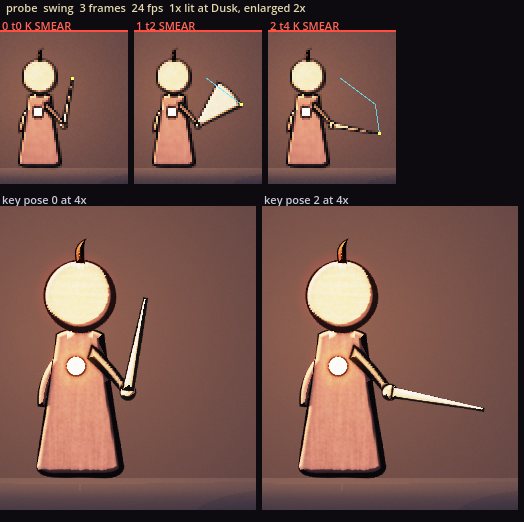
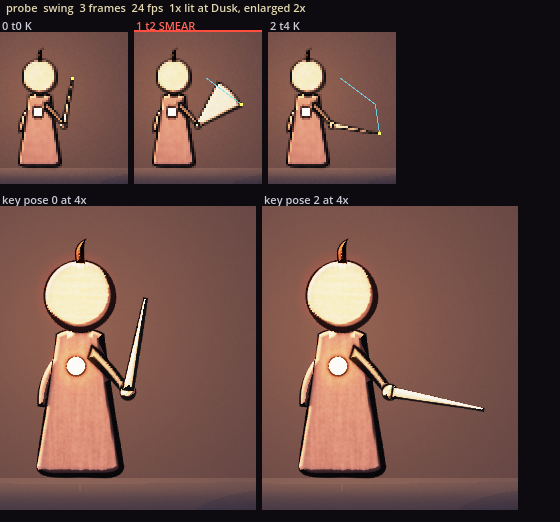
Phase 2 task 1: the art pipeline made whole: ADR-0023 addendum, feel log with critique and review pictures, CODEMAP, PROGRESS (BUILD.md s10 Style, Lighting, Pipeline Review)
Claude-Session: https://claude.ai/code/session_01W19BhohaDCqzNUvUUykRxy

diff --git a/docs/feel_log/2026-10-20-art-pipeline.md b/docs/feel_log/2026-10-20-art-pipeline.md
@@ -1,0 +1,52 @@
+# 2026-10-20: Phase 2 task 1, the art pipeline made whole
+
+- Author: Claude
+- BUILD.md section and table row: section 10, Style, Lighting, Animation (the baking line) and Pipeline (Review); section 8, The Dark
+- Fixture(s): none (presentation only; the core and every golden hash are untouched: 545 fixtures, no hash moved)
+- Contact sheet: `docs/feel_log/2026-10-20-art-pipeline/` (the pictures below), `2026-10-20-art-pipeline-spike.png` for where it started
+
+## Change
+
+First implementation of the joined pipeline; no tuned number changed except that `boil_hz` now has one home (`content/lighting.tres`, 12; it was in two files). What was joined and why is ADR-0023's second addendum: artbuild bakes SVG parts, the ink and gouache shaders draw them, the lighting pass lights them, and one command (`tools/artbuild/review.sh <asset>`) writes the three-size review.
+
+| Number | Before | After | Unit |
+| --- | --- | --- | --- |
+| `boil_hz` | 12 in `ink.tres` and 12 in `lighting.tres` | 12 in `lighting.tres` only | Hz |
+
+## What was looked at, and what it says (BUILD.md section 10)
+
+Two built assets went through the whole path: the candle stump (`tests/art/src/candle_stump`, a prop with a tagged emissive flame) and the probe figure (`tools/artbuild/tests/data/probe`, a Wick-shaped figure with a chest ember and a blade with a smear). Neither is shipped art; they are the pipeline's test subjects, and Ash is the first real one (task 2). Every picture below was opened.
+
+**Silhouette at 64 px** (`sil64.png`, `probe/sil64.png`). The stump reads as a candle: a blob with a lip, a pool and a flame tip that breaks the outline. The probe reads as a Wick: ball head with a tuft, a tall tapering robe, a blade. The blade is one pixel wide at 64 px. That is right for a thin blade, but a Wick's weapon must survive at 64 px, so Ash's blade is drawn at least 3 u wide at its base. Nothing was decorated to be understood.
+
+**Line** (`detail4x.png`, `probe/detail4x.png`). Heavy on the side away from the light (about 5 px at 4x, the 1.3 u of `ink.tres`), a hairline on the lit side, a wobble that moves every fifth tick, and a taper at the drip tip and the blade point. The line pools at the stump's drips, which is the look wanted. Where the line meets the pool's edge the shadow-side weight reads slightly blobby at 4x; at 1x it reads as weight, not blobs. Left as it is until a real asset shows it is a problem.
+
+**Value separation** (`dusk1x.png`, `probe/dusk1x.png`). The two values show at the edges (the rim, the shadow-side line) and not across large parts: the stump's body and the probe's robe read as one flat value, because the bevel that gives a part its normal is 3 u deep by default and the terminator only exists inside it. The shaders are doing what ADR-0023 says. The finding is for Ash and every large part: give them `data-bevel-u` of 8 to 12 so the form turns across the part, and judge the terminator in the review, not in isolation. Not changed here: it is an asset decision, and a default that rounds everything would flatten small parts.
+
+**Readability at Pitch** (`pitch1x.png`, `probe/pitch1x.png`). The ember reveals the figure within about 200 u and the room falls to black beyond it, which is the brief. The stump, lit from 120 u to its left, shows its lit left edge and its white-hot flame and loses its right side and its line to the dark, as it should. The probe carries its own ember, so it never loses its chest. At Pitch a surface that only the room key lights falls to its shadow value (the key is scaled by the Dark), which is why the probe's head goes from cream to orange between Dusk and Pitch. I judge that correct and not a bug, and it is recorded in ADR-0023.
+
+**Emissive** (`detail4x.png`). The flame is white-hot with an orange bloom and no ink line, the chest ember is a white disc with a halo; both survive Pitch. The probe's wick tuft is orange from the flame's bloom, as intended.
+
+**Smear and arc** (`probe/swing.png`). The swing's middle frame carries a pale fan, the smear, and its last frame is the blade at full extension (the sheet flags only that frame, and the contact sheet marks it in red); the arc drawn over the row passes through each frame's real tip (the first version used a box corner and drew a rectangle; wrong, fixed by adding the tip to `sheet.json`). The sheet's key poses at 4x are below the row. Three frames with one smear frame is thin for a Signature but is enough to check the machinery.
+
+**The lit test room** (`dusk1x.png` against `pitch1x.png`). Soft shadows from the ledge fall across the backdrop in a wide cone; the wall interior on the right is black with a 14 u lit skin on the face turned to the ember; the crate on the left is a Phase 1 flat box and is the one thing in the room that looks like a placeholder (it is). The ember's falloff at Dusk is gentle; at Pitch it is a pool with a hard-ish rim on the floor.
+
+**Ash's grey box and a zone 1 room under the new lighting** (`zone1/`). Ash is still the Phase 1 box (cyan at Dusk, green at Pitch because it is lit, not tinted). At 1x (`ash_1x_dusk.png`, `ash_1x_pitch.png`) the ember rakes across the floor and the far dummy is a lit slab at Dusk and gone at Pitch beyond the ember's reach, which is the brief's "the world is the ember". Room 5 (`room05_*.png`) shows the ember lighting the climb's foot and the column's skin; the black block at the left of the floor is solid beyond the room's edge.
+
+## Bugs the joined picture found (all fixed, all in the tests)
+
+1. `SpriteSheet` read only the top-level `cell_u` and `origin_u`, so a sprite stood 7 u off its feet on the candle (the artbuild's cells are per action). Now per action.
+2. `InkSprite.setup` left the first sheet's texture on the node, so the 4x review showed four tiny candles. Now it takes the new sheet's.
+3. The ink include declared `wane_boil` and so did the lighting include: neither shader compiled until one stopped.
+4. The ink render tests lit with the stub's `wane_ember` global; the real light reads a table. They now light through a `LightField`.
+5. The review's first contact sheet cut its title at one frame wide (now at least 560 px) and marked every frame of the swing, and the idle, as smear because `sheet.json` lists a false flag for each smear-tagged part; it now marks only a true one.
+
+## How it plays now
+
+Nothing the player holds changed: this task draws no gameplay art. The director can run `tools/artbuild/review.sh candle_stump --root res://tests/art/build --out docs/feel_log/x` and open the five pictures, or `tools/lighting/render.sh out --room zone1/01_dash_slash` for a lit zone 1 room at Dusk and Pitch.
+
+## Open questions for the director
+
+1. Look at `probe/detail4x.png` and `detail4x.png`: is a heavy, slightly blobby shadow-side line (1.3 u) the ink you want, or thinner (1.0 u)? It is one number in `content/art/ink.tres`.
+2. Look at `probe/pitch1x.png`: the head drops from cream to orange at Pitch because the key light is dark there. Do you want a Wick's head to hold its lit value at Pitch (a gloss that follows the ember), or is losing the warmth the point?
+3. Listen for nothing; this task is silent.

diff --git a/docs/adr/0023-art-pipeline-and-lighting.md b/docs/adr/0023-art-pipeline-and-lighting.md
@@ -374,3 +374,18 @@ What building Decisions 2 and 7.2 settled or changed. Every item keeps the inter
 - Built-ins (`FRAGCOORD`, `SCREEN_UV`) are not visible inside functions; `ink_shade` takes them as arguments.
 - The probe's GDScript bake takes 0.2 s (1x figure), 2.6 s (4x figure), 1.0 s (stage) and 1.0 s (the noise), and the whole render test file runs in about 25 s on llvmpipe; artbuild replaces the bake.
 - **Import settings are part of the channel layout.** Godot's default texture import (`process/fix_alpha_border=true`) overwrites the RGB of every transparent pixel next to an opaque one (measured: a (200, 100, 50, 0) pixel beside an opaque one came back (10, 20, 30, 0)). Every channel here carries data in RGB and alpha, so the default would corrupt the palette index, the brush angle and the taper beside each alpha pixel. project.godot now has `[importer_defaults] texture` with `fix_alpha_border` false, `premult_alpha` false, `compress/mode` 0 (lossless) and `mipmaps/generate` false, for every texture (nothing in this game is a picture); `SpriteSheet` reports a sheet whose `.import` overrides them; `SpriteSheet.load_noise()` builds the noise's mipmaps itself, so the noise needs no `.import` of its own.
+
+## Addendum: the three builders merged (Phase 2 task 1 integration; docs/feel_log/2026-10-20-art-pipeline.md)
+
+What the merge of `tools/artbuild/`, `shaders/ink/` with `game/art/`, and `game/lighting/` settled. The lighting builder's own record is ADR-0024. Each item says who moved.
+
+1. **One `light_common.gdshaderinc`.** The shaders builder's stub is replaced whole by the lighting builder's file, which follows Decision 7.3 and the shaders addendum's four requirements (key irradiance includes N.L and follows the room key for a carrier, `wane_light_reaching` is a share of the ember's own). The ink shaders had declared `wane_boil` themselves; the include declares it, so the ink include no longer does (a redeclaration did not compile). The ink shaders compile and render against the real file (`ci/render.sh`: 28 checks).
+2. **One boil rate.** `boil_hz` was a tuned number in both `InkTuning` and `LightingTuning`. It lives in `content/lighting.tres` (`LightingTuning.boil_hz`, 12): `LightField` writes `wane_boil` from the tick, so the shader family has one clock and one number. `InkTuning.boil_hz` and its line in `content/art/ink.tres` are gone; `InkGlobals.set_tick` stays as the tests' and the harness's way to set a boil step by hand.
+3. **The shader globals are the union.** `project.godot` declares the shaders builder's seven (`wane_ink`, `wane_ink_wave`, `wane_fill`, `wane_fill_more`, `wane_ink_more`, `wane_ink_light`, `wane_ink_bg`) and the lighting builder's twelve (`wane_ambient`, `wane_dark`, `wane_key`, `wane_ember`, the light table, shadow, view and room field, `wane_boil`, `wane_time`). Where both declared one (`wane_ambient`, `wane_key`, `wane_ember`, `wane_boil`) the lighting builder's value and type stand: ambient is the zone colour (0.2, 0.17, 0.26) times the Dark with no `source_color`, the key is (-0.6, -0.8, 0.5).
+4. **A cell and its pivot are per action (artbuild settled Decision 1.6's open form).** `sheet.json` has `cell_u` and `cell_origin_u` on each action; the top-level `cell_u` is the largest and `origin_u` the pivot in source coordinates. `SpriteSheet` had read only the top-level pair, which put a sprite 7 u off its feet on the test prop (found by drawing it). `SpriteSheet.cell_of(action)` and `origin_of(action)` are now per action and `InkSprite.show_frame` sets the node's offset from the action it shows. The top-level numbers remain the fallback for a sheet without the per-action pair.
+5. **Pages.** An asset whose frames do not fit one page is packed on several (`<asset>.p<N>@<s>x.*.png`, a frame's `page`). `SpriteSheet` loads every page, `InkSprite` binds the frame's page texture and the material is keyed by page too (`material(background, carrier, row, mode, page)`; the first four arguments are unchanged). No built asset exceeds one page yet; the unit suite reads a sheet with a frame on page 1.
+6. **`InkSprite.setup` takes the new sheet's texture.** Setting one node up with the 1x sheet and then the 4x masters left the first texture bound (the 4x picture showed four tiny candles). `setup` now forgets the page it showed.
+7. **A blade has a tip in `sheet.json`.** `part_boxes[].tip` (u from the feet pivot) is the vertex of the blade part's main pose farthest from its posed pivot, for parts tagged `blade`. The contact sheet draws its arc through it. A box corner was tried first and was wrong on a diagonal blade. This adds an optional field; Decision 1.6's schema stays valid for older sheets.
+8. **Parts and palette (artbuild).** `parts.png` R holds the palette slot (the material), not a per-part index, so the palette stays 16 columns and an asset has at most 15 materials; the parts of a material share a slot. `sheet.json parts[].index` is that slot. Angle bytes decode as byte x pi / 255 modulo pi. The ink shader reads them as such (the render tests and the review pictures agree).
+9. **The review (Decision 5) is built as stated.** `tools/artbuild/review.gd` with the wrapper `tools/artbuild/review.sh <asset>` (which first builds the 4x masters, gitignored review products) in the lit test room `tests/screenshot/rooms/lit_test.room`, through `LightField`, frozen at Dusk or Pitch. `--out` defaults to `docs/gallery/<asset>`; this task's pictures are in `docs/feel_log/2026-10-20-art-pipeline/`. `ci/lighting.sh` runs it on the test prop and checks the pictures are drawn and the silhouette is white on black.
+10. **The two-value choice follows the Dark.** `wane_key_irradiance` scales the room key by `wane_dark`, so at Pitch a surface that only the room key lights falls from its lit value to its shadow value; ambient is a separate 0.15 multiplier. The render test that held "Pitch ambient is 0.15 of Dusk's" through the stub now holds `wane_dark` at 1 for that check alone, and the flip itself is what Pitch looks like in the review pictures. The tests' light now comes from a real `LightField` (flicker held at tick 0 so a test compares only the boil).

diff --git a/PROGRESS.md b/PROGRESS.md
@@ -1,7 +1,7 @@
 # WANE: progress
 
 - **Phase:** 2, the vertical slice (BUILD.md section 14: Guttering Fields art-complete from code sources, lighting, Vigil, the Gnawer, 30 Votives, synthesized audio; Gate 2: a stranger plays 20 minutes and asks to keep going; 60 fps on the Steam Deck profile). Phase 1 was approved by the director on 2026-10-20 ("the rest looks good"), with two of the director's play notes in progress: zone 1 room 03 becomes an open pit with an optional 4-per-second path, and solid boxes are coloured by what they do. Gate 1's "three outside players call it tight" is the director's to run. CI run 25 was green on the Phase 1 tree.
-- **Status:** Phase 2 task 1 designed and spiked (ADR-0023: SVG parts baked to exact distance fields; ink, gouache and light drawn live in canvas shaders; shadows marched through a room SDF of our own, chosen over Godot's canvas SDF by measurement); three builders (artbuild, shaders, lighting) in parallel; the lighting builder's part is in: the lighting pass replaces the Phase 1 stand-in (ember 420 u at 2400 K with its flicker, a baked room distance field, ray-marched soft shadows in a screen-space buffer, ambient times the Dark, emissives with bloom), judged at Dusk and Pitch in `docs/feel_log/2026-10-20-lighting-pass.md`; the director's room 03 and box-colour notes in progress
+- **Status:** Phase 2 task 1 (the ink and gouache shaders, the lighting pass, `tools/artbuild/` with deterministic renders and the three-size review) is built and merged (ADR-0023 and its second addendum, ADR-0024): SVG parts bake to exact distance-field sheets; the ink line and two-value gouache are canvas shaders; the ember, soft shadows from a room distance field and ambient times the Dark replace the Phase 1 stand-in; `tools/artbuild/review.sh <asset>` writes the 64 px silhouette, 1x at Dusk and Pitch in a lit test room, the 4x detail and a contact sheet per action (`docs/feel_log/2026-10-20-art-pipeline.md`). The independent reviewer's sign-off for task 1 is still owed (see Next). Phase 2 task 2 (Ash) is next; the director's room 03 and box-colour notes in progress
 - **Engine:** Godot 4.7.2-stable (ADR-0001); `Simulation.VERSION` 12; golden hashes blessed once at 12 (545 fixtures, 805 unit cases, 252 scripts, all passing on this container)
 
 ## Kickoff order
@@ -18,12 +18,13 @@
 | 7 | Room editor plugin and grey-box zone 1 (12 rooms, 12 tech interactions in order) | done: the editor (ADR-0018) and twelve rooms with route and control fixtures (ADR-0016, 0017, 0019); `zone1_loop` is 3461 ticks (57.7 s); room 03 was rebuilt on 2026-10-20 so ten bounces at four a second cross it. Two techs are taught, not gated: 8 and 9 (Blocked 3). The director plays the loop |
 | 8 | Stress room (200 enemies, 40 procs, Pitch lighting) and perf benchmark in CI | done on the CPU side (ADR-0015, 0020, 0021, 0022): five Votives and the proc bus; `perf/stress` with 200 dummies; the gated step p99 2.67 ms against 3.0 (best of 3), presentation script p99 4.4 ms against 5.0, a door gate at 2.0 ms; the GPU frame gate is blocked on hardware (Blocked 2) |
 | 9 | Immaculate Checklist pass, Phase 1 report | done as a pass: an independent audit of all 83 checklist lines and 30 defects, its fixes landed (room 03, squash and stretch, the parry window, the camera jolt, door lighting, the fixture suite's speed, tunables to content, effects through the VFX budget, docs); the report is below. Per-task re-review sign-offs for the last rounds of tasks 2 to 6 are not recorded; the audit stood in for them, and the director should know that |
+| P2.1 | Phase 2 task 1: the ink-line and gouache-fill shaders, the lighting pass, `tools/artbuild/` with deterministic renders and the three-size review | built and merged, reviewer sign-off owed: artbuild (97 Python tests, byte-identical builds, `--check`), `shaders/ink/` and `game/art/` (28 render checks under xvfb), the lighting pass (`ci/lighting.sh`, presentation p99 2.95 ms of 5.0), the review in the lit test room (`docs/feel_log/2026-10-20-art-pipeline.md`); ADR-0023 with two addenda and ADR-0024; the core and all 545 golden hashes untouched |
 
 ## Next
 
 1. The director reads "Phase 1 report", plays the sandbox and `zone1_loop`, and answers "For the director". Phase 2 waits for that.
 2. First CI run on this tree: the Windows jobs (10 s fixture budget on the native path) and the blocking `perf-stress` job (margin 11% on the best of 3). If either is red, the suite is made faster or the cells and proc dispatch go native, never a gate lowered.
-3. Phase 2 task 1 is built by three builders against ADR-0023 Decision 7: `tools/artbuild/` (Python), `shaders/ink/` and `game/art/` (the ink and gouache shaders), `game/lighting/` (light table, room SDF bake, shadow buffer, CPU twin, post), replacing the stand-in lighting so the carried checklist lines can be judged. The spike's sheet is `docs/feel_log/2026-10-20-art-pipeline-spike.png`.
+3. Phase 2 task 1 is built and merged. **Owed: the reviewer subagent's pass** (CLAUDE.md working method step 6; no builder had an agent tool): review `shaders/ink/`, `game/art/`, `game/lighting/`, `shaders/lighting/`, `tools/artbuild/` and the review pictures against BUILD.md section 10 (Style, Lighting, Pipeline), section 8 (The Dark) and ADR-0023 with its addenda. Then Phase 2 task 2: Ash's part library, rig and key poses, baked at 24 fps, three iterations, judged lit with `tools/artbuild/review.sh`. Carry the review's finding: large parts need `data-bevel-u` 8 to 12 for the form to turn across them. The unit stage takes about 8 minutes on this container (847 cases); the speed task is queued.
 4. Owed small items: a short ADR for the HUD; before and after rows for the non-feel tunables; re-judge the 30 Votives lit with Phase 2 art.
 
 ## Immaculate Checklist (BUILD.md section 15)

diff --git a/docs/CODEMAP.md b/docs/CODEMAP.md
@@ -12,7 +12,7 @@ Entries read `path symbol`: grep the file for the symbol. `tools/ci/test_codemap
 - `core/combat/` Combat, AttackSet and AttackDef (the Taper), CombatTuning to CombatParams, Flame, Kindling, Hearts, Vitals, KillEmber, FireTrail, HitKind, EnemyCells (query cells, native `WaneCells`).
 - `core/enemies/` Enemy, EnemyDef, EnemyAttack, EnemyProbe, TrainingDummy, EnemyBatch (one native call). `core/rooms/` RoomData, RoomSet, RoomJoins, ZoneDef. `core/rng/` Rng, RngStreams. `core/native/` NativeBackend (`use_native`, off/auto/on), NativeWorld (box mirror), NativeRef (twins of `native/src/`: sweep.cpp is CollisionWorld, cells.cpp EnemyCells; `game/native/native_boot.gd` reads `WANE_NATIVE`). `core/items/` ProcBus, StackingCurve, Votive, VotiveListener, ProcSource, RunMods.
 - `game/` root: SimDriver, Main, ReplayFiles, EaseMath. `game/input/` InputLayer, InputSettings. `game/camera/` CameraRig, CameraSubject, GameCamera, CameraTuning. `game/feedback/` HitFeedback, ScreenShake, FeedbackOverlay, FeedbackTuning. `game/vfx/` VfxBudget (`spawn`, `spawn_rect`). `game/lighting/` LightField, RoomSdf, ShadowBuffer, ShadowTwin, LightKind, LightWord (shaders: `shaders/lighting/`). `game/art/` InkTuning, InkGlobals, SpriteSheet, InkSprite (shaders: `shaders/ink/`). `game/audio/` Voices, Synth. `game/debug/` DebugOverlay, DebugBoxes, DebugControls, InputHistory. Views: `game/player/` and siblings.
-- `content/` see Tunable numbers. `tools/ci/` test gate (`tools/ci/quiet_report.gd`); `tools/replay/` fixtures, runner, play, film, trace, bless; `tools/bench/` physics, proc, stress, stage and frame benches (PerfStats, PerfBudget, FrameProbes), `tools/perf/make_stress.py`; `tools/room_editor/` the room editor (below); `tools/artbuild/` SVG parts to sheets (ADR-0023; `tools/artbuild/assetbuild.py`; test prop `tests/art/src/candle_stump/`).
+- `content/` see Tunable numbers. `tools/ci/` test gate ; `tools/replay/` fixtures, runner, play, film, trace, bless; `tools/bench/` physics, proc, stress, stage and frame benches, `tools/perf/make_stress.py`; `tools/room_editor/` the room editor (below); `tools/artbuild/` SVG parts to sheets (ADR-0023; `tools/artbuild/assetbuild.py`, `tools/artbuild/review.sh <asset>` the three-size review; test prop `tests/art/src/candle_stump/`, lit room `tests/screenshot/rooms/lit_test.room`).
 - `tests/unit/` gdUnit4 suites. `tests/replay/` fixtures by folder (camera, combat, core, doors, movement, physics, procs, rooms, tech, zone1), test rooms `tests/replay/rooms/`, goldens `tests/replay/golden_hashes.txt`. `tests/support/` PhysicsKit, CameraRun, ShaftJumps. `tests/perf/` the stress room `tests/perf/rooms/stress.room` and run `tests/perf/stress_run.fixture`.
 - `ci/` `ci/test.sh`, `ci/unit.sh`, `ci/perf.sh`, `ci/lint.sh`, `ci/setup_godot.sh`, `ci/build_native.sh`, `ci/native_release_check.sh`; `.github/workflows/ci.yml`. `docs/adr/`, `docs/feel_log/`.
 
@@ -43,7 +43,7 @@ A condition is `key op value`, keys from `core/sim/simulation.gd probe`: player 
 
 - `content/wicks/ash/movement.tres` (`core/fsm/movement_tuning.gd compile`), `content/wicks/ash/kit.tres` (`core/fsm/kit_tuning.gd compile`), `content/wicks/ash/taper.tres` (AttackSet); loaded by `Simulation._build_player`.
 - `content/combat/combat.tres` (`core/combat/combat_tuning.gd compile`); `content/physics/world.tres` (WorldTuning); `content/enemies/dummy.tres` (EnemyDef; kinds in `Simulation.ENEMY_KINDS`); `content/zones/zone1.tres` (ZoneDef); `content/perf/budget.tres` (PerfBudget).
-- Presentation: `content/camera.tres`, `content/feedback.tres`, `content/player_view.tres`, `content/input/input_settings.tres`, `content/lighting.tres`.
+- Presentation: `content/camera.tres`, `content/feedback.tres`, `content/player_view.tres`, `content/input/input_settings.tres`, `content/lighting.tres`, `content/art/ink.tres`.
 - Rooms: `content/rooms/zone1/` (12 tech rooms; routes, controls and `zone1_loop` in `tests/replay/zone1/`), `content/rooms/sandbox.room`. A tuning change needs a feel-log entry, a BUILD.md update, and a re-bless.
 
 ## Commands (repo root; `godot` on PATH or `GODOT`)
@@ -56,7 +56,7 @@ A condition is `key op value`, keys from `core/sim/simulation.gd probe`: player 
 - Contact sheet, F3 on (needs a display): `xvfb-run -a -s "-screen 0 1920x1080x24" godot --path . --rendering-driver opengl3 --audio-driver Dummy --resolution 1920x1080 --script tools/replay/film.gd -- out.png --overlay on --zoom 3 <fixture>`.
 - One gdUnit suite: `ci/unit.sh --quiet tests/unit/core/test_rng.gd`; raw: `python3 tools/ci/unit_failures.py`.
 - Lint: `ci/lint.sh` (gdlint, gdformat --check, greps); fix format with `gdformat <file>`.
-- Coverage (gate 85%): `python3 tools/ci/gd_coverage.py --min 85`. Python tests: `tools/ci/test_*.py`; art: `python3 tools/artbuild/build.py [--check]`, `python3 tools/ci/test_artbuild.py`. Benches: `tools/bench/*_bench.gd`. Perf gate: `ci/perf.sh [--only stress|zone|frame]` (`PERF_LIB=release`; CI jobs `perf`, `perf-stress`) against `content/perf/budget.tres`; `tools/bench/stage_bench.gd` times a tick's stages.
+- Coverage (gate 85%): `python3 tools/ci/gd_coverage.py --min 85`. Python tests: `tools/ci/test_*.py`; art: `python3 tools/artbuild/build.py [--check]`, `python3 tools/ci/test_artbuild.py`. Perf gate: `ci/perf.sh [--only stress|zone|frame]` (`PERF_LIB=release`; CI jobs `perf`, `perf-stress`) against `content/perf/budget.tres`.
 
 ## Rules agents trip on
 
@@ -85,3 +85,4 @@ A condition is `key op value`, keys from `core/sim/simulation.gd probe`: player 
 - `0021-native-extension-toolchain` godot-cpp pin, `WANE_NATIVE`, parity rules.
 - `0018-room-editor-install`
 - `0023-art-pipeline-and-lighting` Baked SDF channels, live ink shaders, room SDF shadows.
+- `0024-lighting-pass-implementation` LightField, room field bake, shadow buffer, Dark.

diff --git a/tools/artbuild/README.md b/tools/artbuild/README.md
@@ -33,3 +33,12 @@ Roots (`build.py ROOTS`): `assets/art/src/<asset>/` to `assets/art/build/<asset>
 - Reductions: normal and gloss are reduced from the 4x master with Mitchell weighted by silhouette coverage, so the silhouette edge does not dilute them, then renormalised; emissive is a box average; everything else is evaluated exactly at each scale's pixel centres.
 - `.import` files: Godot's default `fix_alpha_border` rewrites the colour of pixels with zero alpha, which is most of the data in these textures. `project.godot` `[importer_defaults]` turns it (and premultiplied alpha) off for new imports; a test checks that every committed `.import` of a built texture agrees.
 - The probe is a folder (`tools/artbuild/tests/data/probe/parts.svg`, `palette.tres`, `pose.json`), not a single file.
+- A blade-tagged part reports `tip` (u from the pivot) beside its box: the main pose's vertex farthest from the posed pivot. The review draws the arc through it.
+
+## The review
+
+```
+tools/artbuild/review.sh <asset> [--root res://dir] [--out dir] [--carries-ember] [action...]
+```
+
+Builds the asset with its 4x masters, then (`tools/artbuild/review.gd`, under xvfb, with the game's own shaders and `LightField`) writes `sil64.png`, `dusk1x.png`, `pitch1x.png`, `detail4x.png` and a contact sheet per action to `docs/gallery/<asset>/` (ADR-0023 Decision 5). The lit test room is `tests/screenshot/rooms/lit_test.room`. `ci/lighting.sh` runs it on the test prop.

diff --git a/docs/feel_log/README.md b/docs/feel_log/README.md
@@ -34,3 +34,5 @@ The tuned values become the spec: when a number changes here, the same commit ch
 | 2026-10-19 | [task 7: zone 1 whole](2026-10-19-merge-zone1.md) | The rooms re-timed on the fixed engine (rooms 1 and 8), and the 60-second loop through all twelve rooms: 3584 ticks |
 | 2026-10-20 | [Phase 2 task 1: the art build](2026-10-20-artbuild.md) | `tools/artbuild/`: SVG parts to exact distance-field sheets, normal and emissive maps and metadata; the probe and a test prop; byte-identical builds; first implementation, no tuned number changed |
 | 2026-10-20 | [Phase 2 task 1: ink and gouache shaders](2026-10-20-ink-gouache-shaders.md) | The ink line, two-value gouache, rim, brush, grain and emissive as canvas shaders on the ADR-0023 channel layout; brush_noise 0.10 to 0.05 |
+| 2026-10-20 | [Phase 2 task 1: the lighting pass](2026-10-20-lighting-pass.md) | The ember, soft shadows from the room's distance field, ambient times the Dark, emissives and bloom replace the Phase 1 stand-in |
+| 2026-10-20 | [Phase 2 task 1: the art pipeline made whole](2026-10-20-art-pipeline.md) | The three builders merged; the three-size review in the lit test room; per-action cells, pages and the blade tip; one boil rate (`boil_hz` 12, now in one file) |

diff --git a/tools/README.md b/tools/README.md
@@ -4,7 +4,7 @@ Tooling (BUILD.md section 13, layer 6): CI entry points (`ci/`), the replay reco
 
 ## Art build
 
-`artbuild/` bakes SVG part libraries into sprite sheets with distance-field, normal and emissive channels and metadata (ADR-0023 Decision 1). Read `artbuild/README.md`; run `python3 tools/artbuild/build.py` and test with `python3 tools/ci/test_artbuild.py`. Sources are `assets/art/src/`; renders under `assets/art/build/` are build output and are never edited by hand (`build.py --check` runs in CI).
+`artbuild/` bakes SVG part libraries into sprite sheets with distance-field, normal and emissive channels and metadata (ADR-0023 Decision 1). Read `artbuild/README.md`; run `python3 tools/artbuild/build.py` and test with `python3 tools/ci/test_artbuild.py`. Sources are `assets/art/src/`; renders under `assets/art/build/` are build output and are never edited by hand (`build.py --check` runs in CI). `artbuild/review.sh <asset>` renders the three-size review (64 px silhouette, 1x lit at Dusk and Pitch, 4x detail, contact sheets) in the lit test room.
 
 ## Room editor
 
